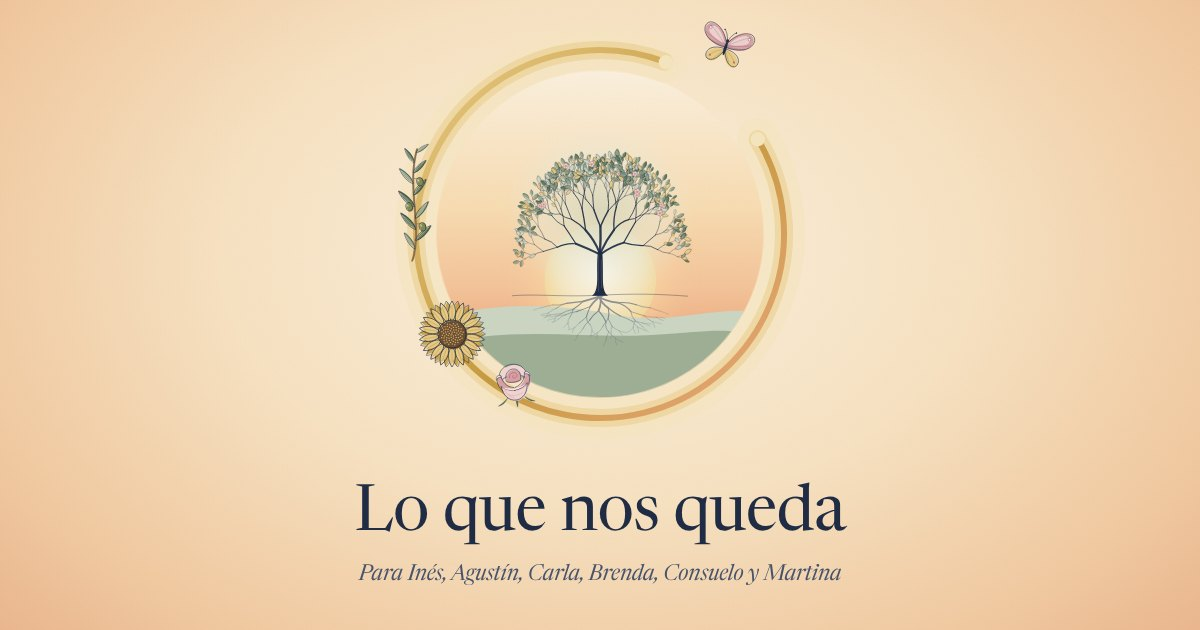
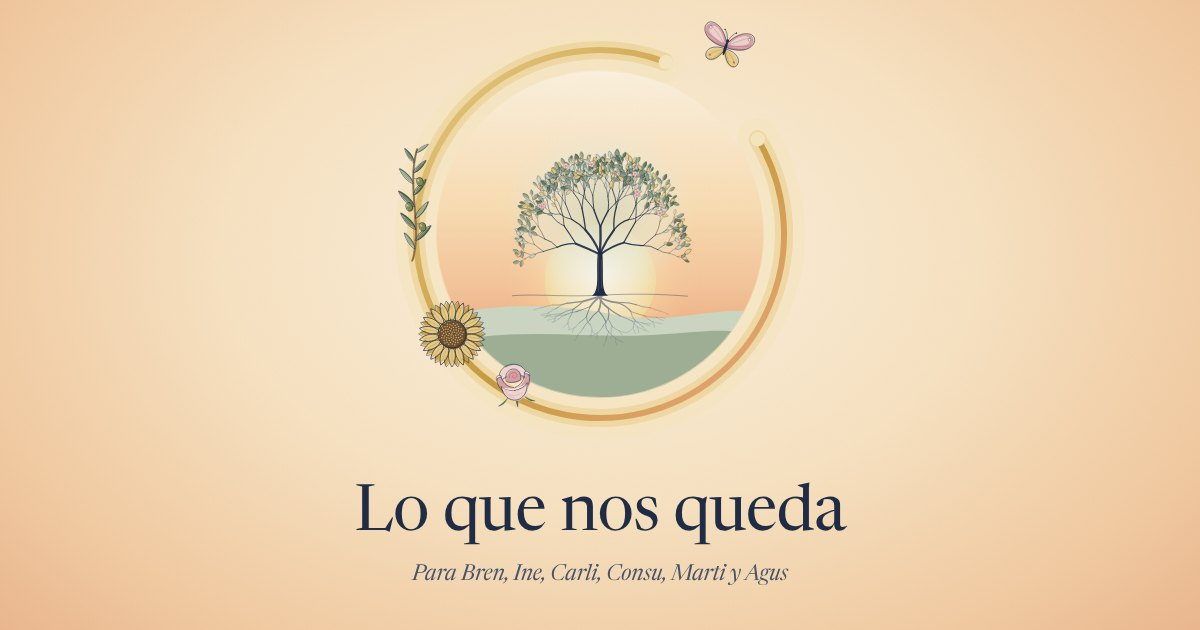
Usa los apodos de los compañeros en la dedicatoria
Bren, Ine, Carli, Consu, Marti y Agus en la portada, la carta y la
imagen de vista previa.

Claude-Session: https://claude.ai/code/session_011SfkV48uXoWFhVdxj2T5nZ

Changed region(s): [[0.3083, 0.8746, 0.7092, 0.9349]]

diff --git a/src/config/experience.ts b/src/config/experience.ts
@@ -129,7 +129,7 @@ export const experience: ExperienceConfig = {
     closing: 'Con mucho cariño,',
   },
 
-  recipients: ['Inés', 'Agustín', 'Carla', 'Brenda', 'Consuelo', 'Martina'],
+  recipients: ['Bren', 'Ine', 'Carli', 'Consu', 'Marti', 'Agus'],
 
   yearsShared: null,
 

diff --git a/src/lib/text.ts b/src/lib/text.ts
@@ -1,4 +1,4 @@
-/** "Inés, Agustín y Carla" */
+/** "Bren, Ine y Carli" */
 export function listJoin(items: string[]): string {
   if (items.length <= 1) return items.join('')
   return `${items.slice(0, -1).join(', ')} y ${items[items.length - 1]}`
